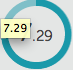
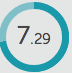
adds Gabrielle's section styles

diff --git a/css/style.css b/css/style.css
@@ -13,8 +13,90 @@
   #nav1 #socials {
     float: left; }
 
-section #main_image {
-  float: left; }
+section {
+  font-style: Georgia, Times, serif;
+  color: #444444;
+  margin-top: 25px; }
+  section #main_image {
+    float: left; }
+    section #main_image #main_pic {
+      height: 287px;
+      width: 459; }
+    section #main_image p {
+      font-size: 12px;
+      font-weight: bold;
+      padding-left: 15px; }
+      section #main_image p span {
+        font-weight: normal;
+        font-style: italic;
+        color: #409f89; }
+  section #circles {
+    width: 77px;
+    float: left;
+    padding: 0;
+    margin: 0 10px; }
+  section #table {
+    float: left; }
+    section #table table {
+      background-color: #dee0df;
+      width: 611px; }
+      section #table table tr {
+        line-height: 30px;
+        border-bottom: 1px solid #D5D7D6; }
+        section #table table tr:nth-child(1) {
+          border-bottom: none; }
+        section #table table tr:last-child {
+          border-bottom: none; }
+      section #table table th {
+        text-align: left;
+        font-size: 12px;
+        font-weight: normal;
+        border-bottom: none; }
+      section #table table td {
+        font-size: 12px; }
+        section #table table td img {
+          position: relative;
+          top: 6px; }
+        section #table table td:nth-child(1) {
+          text-align: left;
+          width: 25%; }
+        section #table table td:nth-child(2) {
+          font-style: italic;
+          width: 32%;
+          color: #409f89; }
+        section #table table td:nth-child(3) {
+          text-align: left;
+          width: 17%;
+          font-size: 14px; }
+        section #table table td:nth-child(4) {
+          text-align: left;
+          width: 18%; }
+        section #table table td:nth-child(5) {
+          text-align: left;
+          width: 8%; }
+    section #table ul {
+      float: right;
+      padding-right: 18px; }
+      section #table ul li {
+        background-color: #dee0df;
+        display: inline;
+        font-size: 10px;
+        padding-left: 15px; }
+        section #table ul li:nth-child(even) {
+          padding: 0; }
+        section #table ul li:nth-child(odd) {
+          position: relative; }
+        section #table ul li:nth-child(1) {
+          top: 3px; }
+        section #table ul li:nth-child(3) {
+          top: 5px;
+          left: 3px; }
+        section #table ul li:nth-child(5) {
+          top: 1px;
+          left: 2px; }
+        section #table ul li:nth-child(7) {
+          top: 2px;
+          left: 3px; }
 
 .clear {
   clear: both; }

diff --git a/scss/_section.scss b/scss/_section.scss
@@ -1,7 +1,149 @@
 section
 {
+  font-style: $site_font;
+  color: $grey;
+  margin-top: 25px;
+
   #main_image
   {
     float: left;
+
+    #main_pic
+    {
+      height: 287px;
+      width: 459;
+    }
+
+    p
+    {
+      font-size: 12px;
+      font-weight: bold;
+      padding-left: 15px;
+
+      span
+      {
+        font-weight: normal;
+        font-style: italic;
+        color: $teal;
+      }
+    }
+  }
+
+  #circles
+  {
+    width: 77px;
+    float: left;
+    padding: 0;
+    margin: 0 10px;
+  }
+
+  #table
+  {
+    float: left;
+
+    table
+    {
+      background-color: rgb(222, 224, 223);
+      width: 611px;
+
+      tr
+      {
+        line-height: 30px;
+        border-bottom: 1px solid #D5D7D6;
+        &:nth-child(1)
+        {
+          border-bottom: none;
+        }
+         &:last-child
+        {
+          border-bottom: none;
+        }
+      }
+
+    th
+    {
+      text-align: left;
+      font-size: 12px;
+      font-weight: normal;
+      border-bottom: none;
+    }
+    td
+    {
+      img
+      {
+        position: relative;
+        top: 6px;
+      }
+
+      font-size: 12px;
+      &:nth-child(1)
+        {
+        text-align: left;
+        width: 25%;
+        }
+      &:nth-child(2)
+        {
+        font-style: italic;
+        width: 32%;
+        color: $teal;
+        }
+      &:nth-child(3)
+        {
+        text-align: left;
+        width: 17%;
+        font-size: 14px;
+        }
+      &:nth-child(4)
+        {
+        text-align: left;
+        width: 18%;
+        }
+      &:nth-child(5)
+        {
+        text-align: left;
+        width: 8%;
+        }
+    }
+    }
+    ul
+    {
+      float: right;
+      padding-right: 18px;
+      li
+      {
+        background-color: rgb(222, 224, 223);
+        display: inline;
+        font-size: 10px;
+        padding-left: 15px;
+        &:nth-child(even)
+        {
+          padding: 0;
+        }
+        &:nth-child(odd)
+        {
+          position: relative;
+        }
+        &:nth-child(1)
+        {
+          top: 3px;
+        }
+        &:nth-child(3)
+        {
+          top: 5px;
+          left: 3px;
+        }
+         &:nth-child(5)
+        {
+          top: 1px;
+          left: 2px;
+        }
+         &:nth-child(7)
+        {
+          top: 2px;
+          left: 3px;
+        }
+      }
+    }
+
   }
 }

diff --git a/index.html b/index.html
@@ -106,7 +106,7 @@
             <td>7.75</td>
           </tr>
           <tr>
-            <td>Awwards Users</td>
+            <td>Awwwards Users</td>
             <td>awwwards.com</td>
             <td>AW</td>
             <td><img src="images/circles8.png" alt="votes = 7, 8, 7, 7"></td>
@@ -114,14 +114,19 @@
           </tr>
         </table>
         <ul>
+          <li><img src="images/red_bullet.png"></li>
           <li>DESIGN</li>
+          <li><img src="images/yellow_bullet.png"></li>
           <li>CREATIVITY</li>
+          <li><img src="images/green_bullet.png"></li>
           <li>USABILITY</li>
+          <li><img src="images/blue_bullet.png"></li>
           <li>CONTENT</li>
         </ul>
       </div>
 
     </section>
+    <div class="clear"></div>
 
     <footer></footer>
   </div> <!--close main-->
